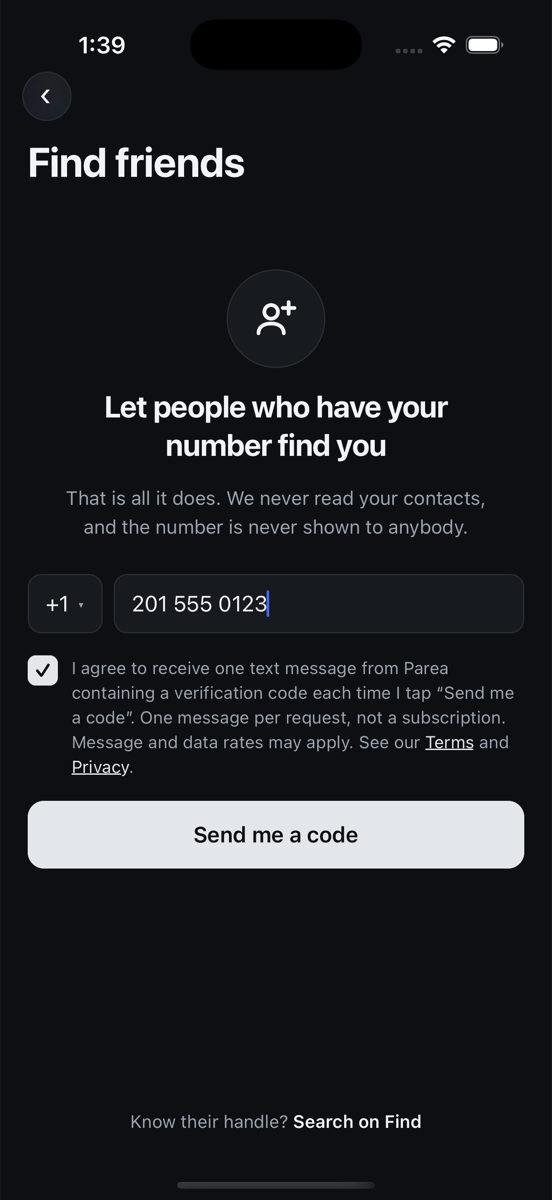
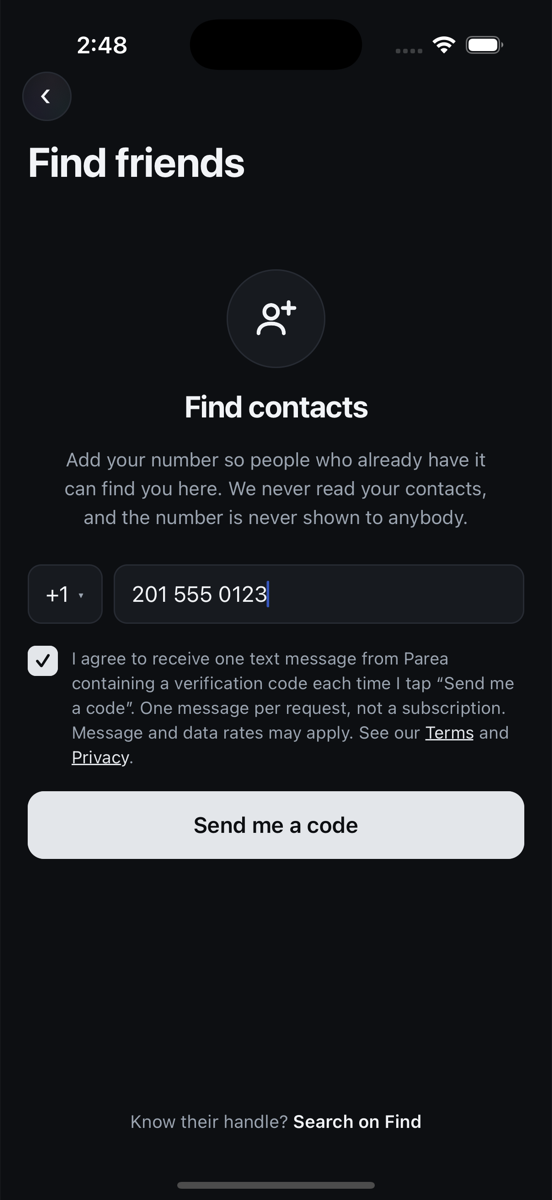
Find Friends' question is "Find contacts" now, with the line under it saying what adding a number does, on the web and in the app. The screenshots on /texts are retaken from the new screen so a carrier reviewer sees the screen people get, and the campaign's opt-in, opt-out and help replies are writt
Claude-Session: https://claude.ai/code/session_01CGdwHawhuyvejZ2Ti6rgHE

Changed region(s): [[0.0308, 0.3083, 0.9547, 0.74], [0.3388, 0.9867, 0.6775, 1.0], [0.1232, 0.0308, 0.2464, 0.0617]]

diff --git a/apps/mobile/src/FindFriends.tsx b/apps/mobile/src/FindFriends.tsx
@@ -386,11 +386,12 @@ export function FindFriends({
                       <Glyph name="add-person" size={34} color={t.fg} />
                     </View>
                     <Text style={[styles.headline, { color: t.fg }]}>
-                      Let people who have your number find you
+                      Find contacts
                     </Text>
                     <Text style={[styles.body, { color: t.dim }]}>
-                      That is all it does. We never read your contacts, and the
-                      number is never shown to anybody.
+                      Add your number so people who already have it can find you
+                      here. We never read your contacts, and the number is never
+                      shown to anybody.
                     </Text>
                   </View>
 

diff --git a/apps/web/app/components/FindFriendsView.tsx b/apps/web/app/components/FindFriendsView.tsx
@@ -340,10 +340,11 @@ export function FindFriendsView() {
                 <span className="ff-disc" aria-hidden="true">
                   <RailIcon glyph="add-person" />
                 </span>
-                <h2>Let people who have your number find you</h2>
+                <h2>Find contacts</h2>
                 <p className="muted">
-                  That is all it does. We never read your contacts, and the number
-                  is never shown to anybody.
+                  Add your number so people who already have it can find you
+                  here. We never read your contacts, and the number is never
+                  shown to anybody.
                 </p>
               </div>
 

diff --git a/apps/mobile/test/find-friends.test.ts b/apps/mobile/test/find-friends.test.ts
@@ -197,7 +197,7 @@ describe('what the screen will not draw', () => {
   });
 
   it('asks with the whole page, the country code as its own control', () => {
-    expect(SCREEN).toContain('Let people who have your number find you');
+    expect(SCREEN).toContain('Find contacts');
     expect(SCREEN).toMatch(/<Glyph name="add-person" size=\{34\}/);
     expect(SCREEN).toMatch(/api\.startPhone\(fullNumber\(country, phone\)\)/);
     expect(SCREEN).toMatch(/disabled=\{busy \|\| !smsAgreed \|\| nationalDigits < 6\}/);

diff --git a/apps/web/test/find-friends-page.test.ts b/apps/web/test/find-friends-page.test.ts
@@ -98,7 +98,7 @@ describe('the page', () => {
   });
 
   it('asks with the whole page, the country code as its own control', () => {
-    expect(VIEW).toContain('Let people who have your number find you');
+    expect(VIEW).toContain('Find contacts');
     expect(VIEW).toMatch(/<RailIcon glyph="add-person" \/>/);
     expect(VIEW).toMatch(/JSON\.stringify\(\{ phone: fullNumber\(country\.code, phone\) \}\)/);
     expect(VIEW).toContain('<a href="/find?scope=people">Search on Find</a>');

diff --git a/docs/sms-a2p.md b/docs/sms-a2p.md
@@ -67,8 +67,14 @@ Keep these. Two rounds were lost to re-deriving them badly.
 | Privacy policy | `https://www.parea.photos/privacy` |
 | Terms | `https://www.parea.photos/terms` |
 | Public opt-in link | `https://www.parea.photos/texts` |
-| Opt-in keywords | **Blank.** Text opt-in is not supported |
-| Opt-in message | **Blank** |
+| Opt-in keywords | `START,YES,UNSTOP` — Twilio's re-subscribe defaults, which it fills in regardless. The consent description says outright they are not an opt-in path |
+| Opt-in message | `Parea: You will receive verification codes again, one per request you make. Not a subscription. Msg & data rates may apply. Reply STOP to opt out. Help: safety@parea.photos` |
+| Opt-out message | `Parea: You are unsubscribed and will receive no more messages from this number. Reply START to resubscribe.` |
+| Help message | `Parea: Help with your verification code: safety@parea.photos. One message per request. Msg & data rates may apply. Reply STOP to opt out.` |
+
+The three messages above are only true if the Messaging Service sends them:
+**Advanced Opt-Out** on `MGfe4456…` must carry the same text, or Twilio sends
+its own defaults and the form describes replies nobody receives.
 | Content attributes | None of the four. No links, no phone numbers, nothing age-gated or financial in the body |
 
 Use the `www` host in every URL. The bare domain 308-redirects, and some reviewer
